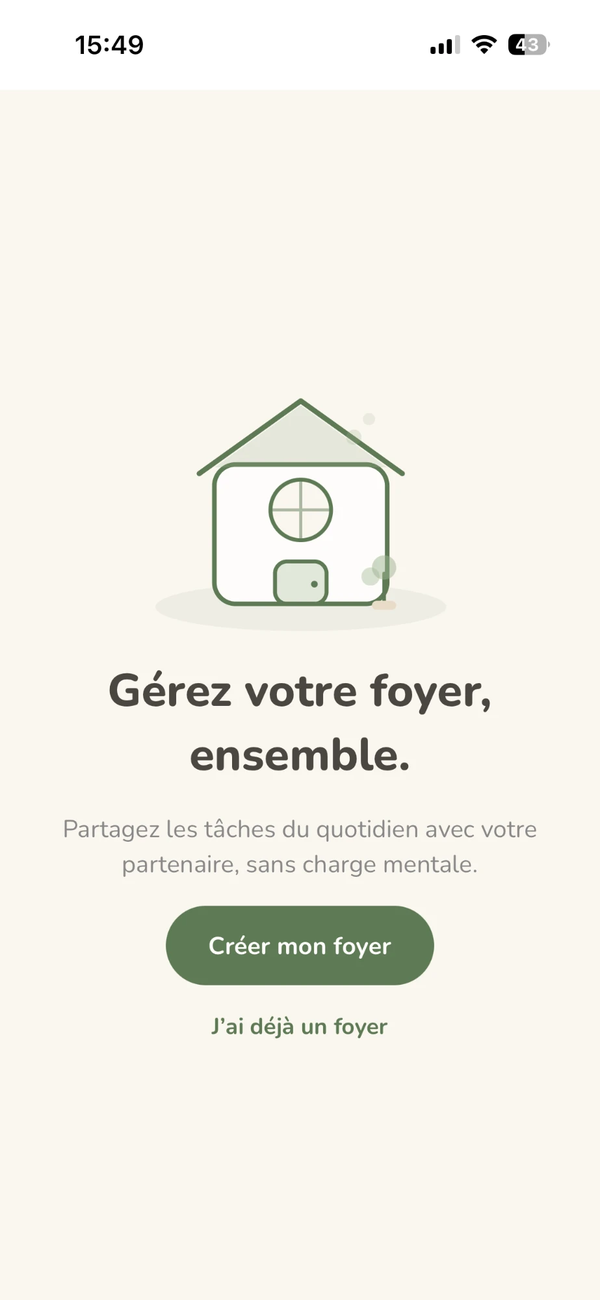
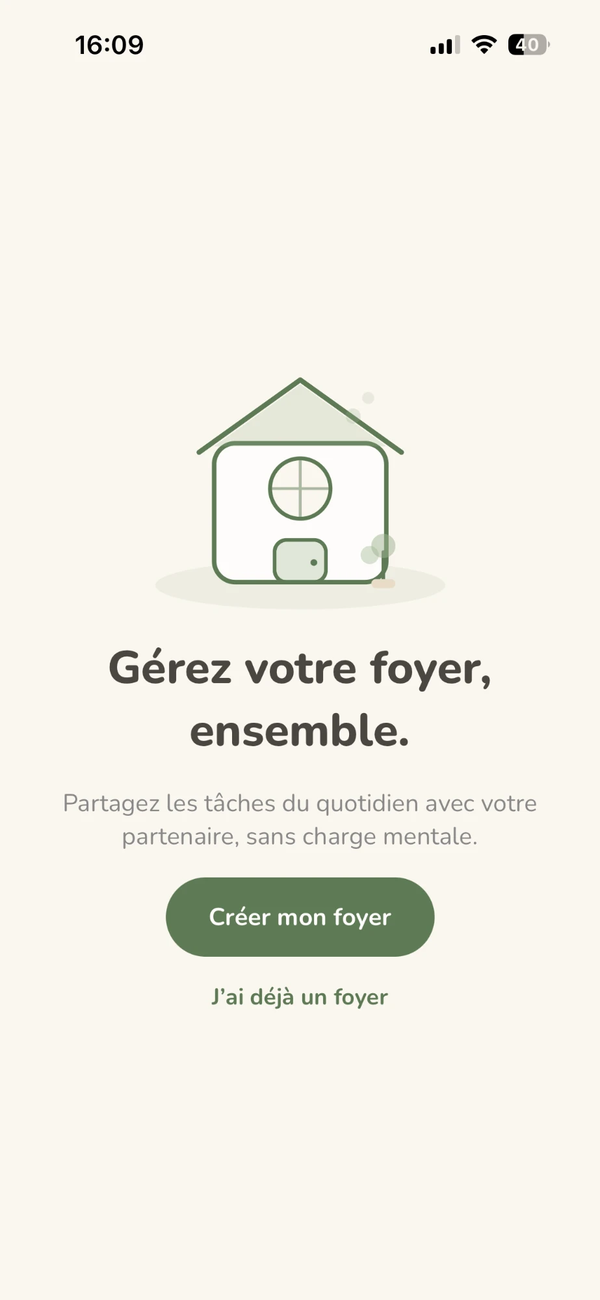
Replace README screenshots with clean captures (9 screens)

Changed region(s): [[0.09, 0.2769, 0.9, 0.8], [0.15, 0.0308, 0.21, 0.0615]]

diff --git a/README.md b/README.md
@@ -15,14 +15,19 @@ les tâches du quotidien de façon équilibrée et à réduire la charge mentale
 
 <table>
   <tr>
-    <td align="center"><img src="docs/screenshots/01-splash.png" width="230" alt="Écran de démarrage"><br><sub>Démarrage</sub></td>
+    <td align="center"><img src="docs/screenshots/01-demarrage.png" width="230" alt="Écran de démarrage"><br><sub>Démarrage</sub></td>
     <td align="center"><img src="docs/screenshots/02-bienvenue.png" width="230" alt="Écran de bienvenue"><br><sub>Bienvenue</sub></td>
-    <td align="center"><img src="docs/screenshots/03-taches.png" width="230" alt="Liste des tâches par catégorie"><br><sub>Tâches par catégorie et suggestions</sub></td>
+    <td align="center"><img src="docs/screenshots/03-categories.png" width="230" alt="Choix des catégories"><br><sub>Choix des catégories</sub></td>
   </tr>
   <tr>
-    <td align="center"><img src="docs/screenshots/04-detail-tache.png" width="230" alt="Détail d'une tâche"><br><sub>Détail d'une tâche</sub></td>
-    <td align="center"><img src="docs/screenshots/05-formulaire-tache.png" width="230" alt="Formulaire de tâche"><br><sub>Ajout et édition d'une tâche</sub></td>
-    <td align="center"><img src="docs/screenshots/06-stats.png" width="230" alt="Statistiques de répartition"><br><sub>Stats et message de gratitude</sub></td>
+    <td align="center"><img src="docs/screenshots/04-accueil.png" width="230" alt="Accueil avec les tâches du jour"><br><sub>Accueil : tâches du jour et remerciement reçu</sub></td>
+    <td align="center"><img src="docs/screenshots/05-taches.png" width="230" alt="Tâches par catégorie"><br><sub>Tâches par catégorie et suggestions</sub></td>
+    <td align="center"><img src="docs/screenshots/06-formulaire-tache.png" width="230" alt="Formulaire de tâche"><br><sub>Ajout et édition d'une tâche</sub></td>
+  </tr>
+  <tr>
+    <td align="center"><img src="docs/screenshots/07-detail-tache.png" width="230" alt="Détail d'une tâche"><br><sub>Détail d'une tâche</sub></td>
+    <td align="center"><img src="docs/screenshots/08-stats.png" width="230" alt="Statistiques de répartition"><br><sub>Stats et message de gratitude</sub></td>
+    <td align="center"><img src="docs/screenshots/09-remerciement.png" width="230" alt="Remerciement envoyé avec notification"><br><sub>Remerciement envoyé (notification locale)</sub></td>
   </tr>
 </table>
 
